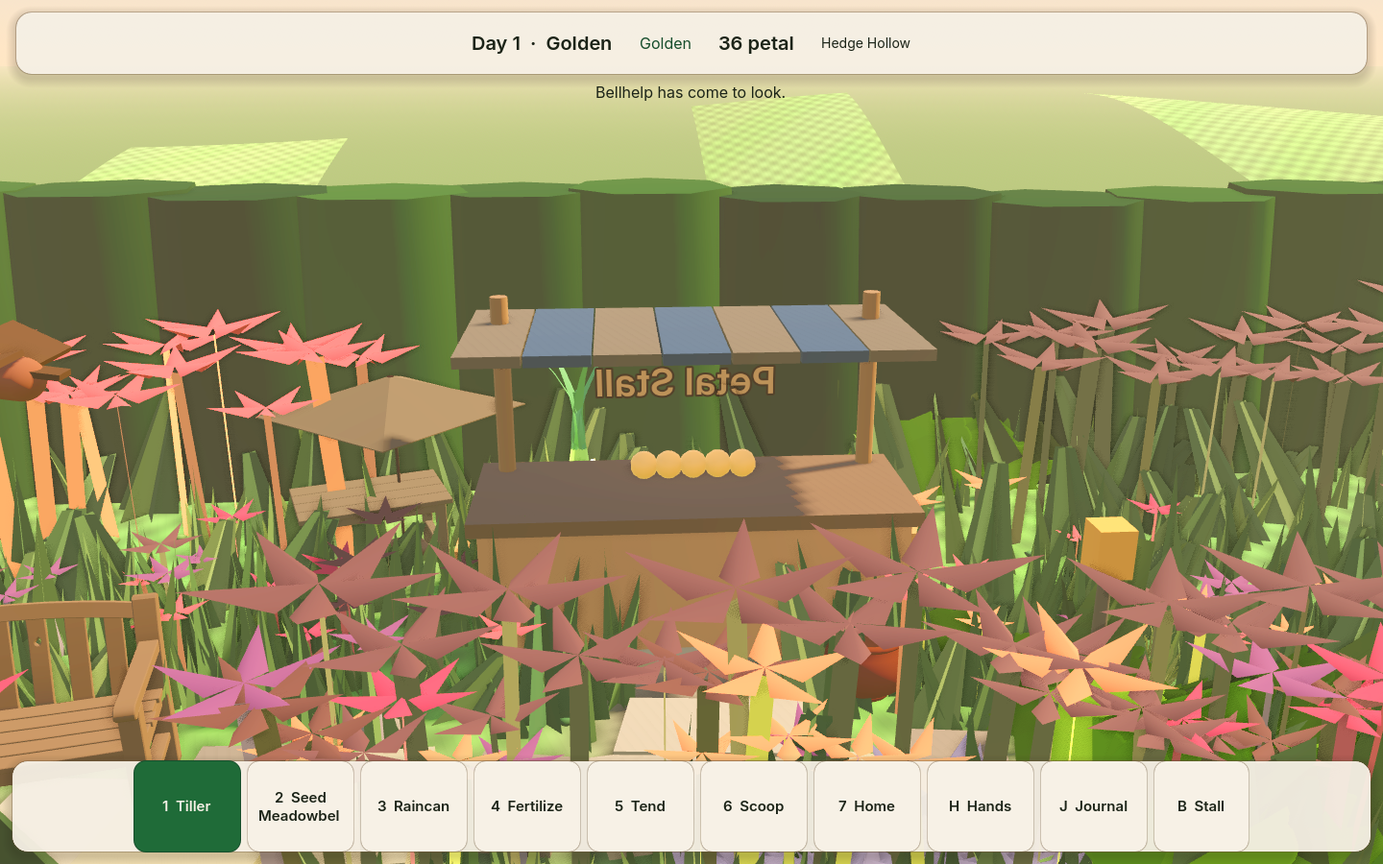
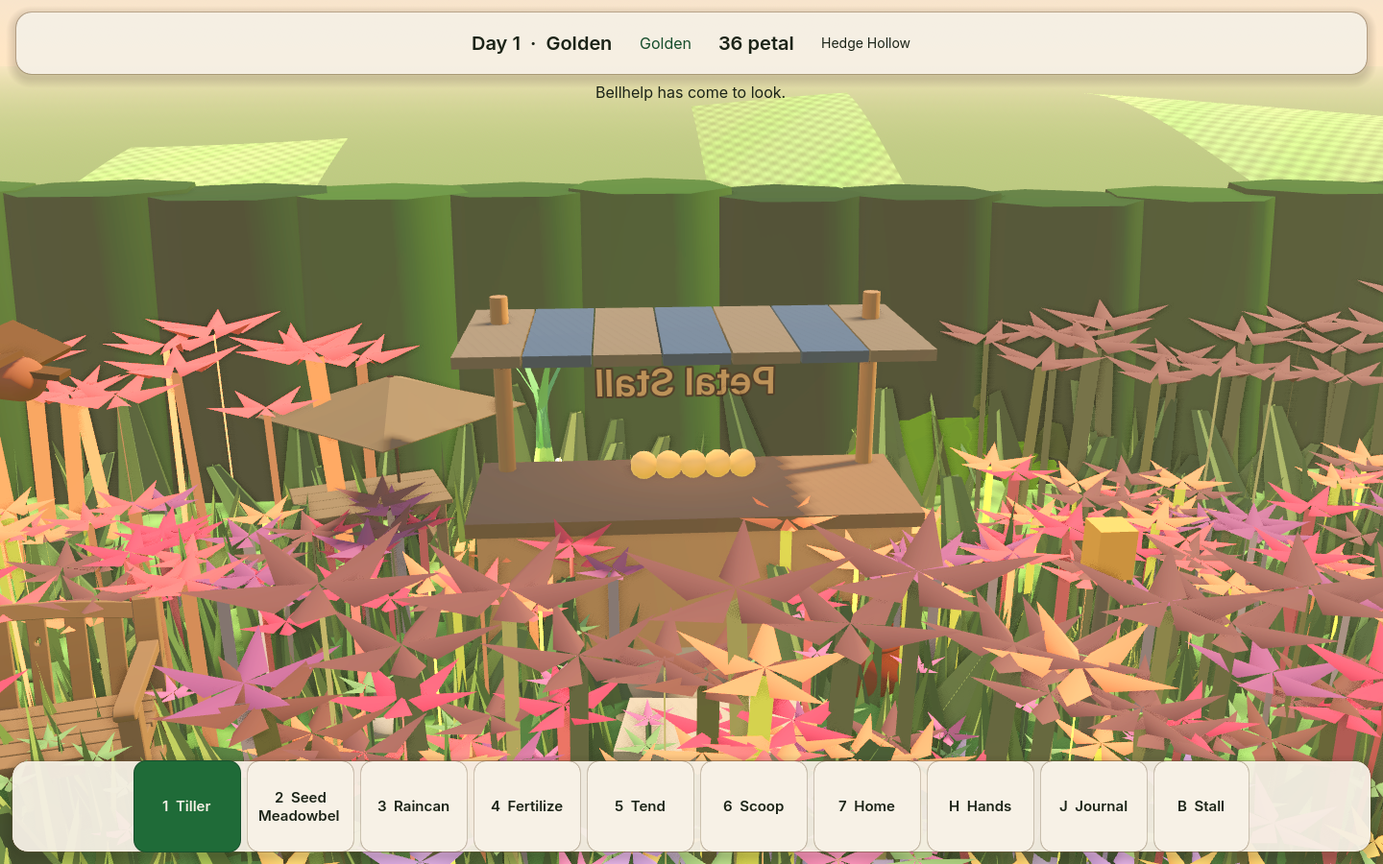
The stall lamp follows the counter's open hours.
Brighter from 5:00 until 19:30, and dim after the stall shuts.
Hailo chose this slice.

Changed region(s): [[0.0, 0.4044, 1.0, 1.0], [0.5312, 0.4667, 0.5625, 0.5289], [0.9688, 0.9022, 1.0, 0.9333]]

diff --git a/docs/PETALWILD_MASTER_STATE.md b/docs/PETALWILD_MASTER_STATE.md
@@ -25,7 +25,7 @@ This machine has no Vulkan surface. Godot falls back to OpenGL 3 / llvmpipe. Aud
 - Chain continues through Bulrush, Reedic, Cirlark, Dusknip night-loam, Pegapear, Gushorn.
 - Grab, drop, and throw on the jelly spring body. Mood and bond change.
 - Lumen Peel, Bram Cobble, and Nessa Pod (Nessa waits for a resident Bellhelp and a home kit).
-- Petal coins. Fertiliser purchase spends coins from 5:00 until 19:30. Before morning and after dusk the stall is shut and the tin does not move. Peach-tray proposal spends 8 only after approval, once a day.
+- Petal coins. Fertiliser purchase spends coins from 5:00 until 19:30. Before morning and after dusk the stall is shut and the tin does not move. The stall lamp brightens while the counter is open and dims after it shuts. Peach-tray proposal spends 8 only after approval, once a day.
 - Save and reload round-trip coins and garden state.
 - Slobad's CC0 forest loop is the garden bed. Tool sounds stay procedural. Eight bees drift over the beds and sit on the flowers in the rain. Four birds cross the garden by day, perch from dusk through the night, and in the rain. At 5:00 they leave the perch and sing once, and the parish takes the day round. That song lasts until 7:00. Rain, night, and a later hour stay quiet, and the same morning does not sing again. A reload keeps that morning. From 5:00 to 7:00 the open beds take a little dew. It does not seed, and it does not fall in the rain, at night, or after seven. The parish page counts both.
 - Large text resizes the garden HUD without leaving the scene.
@@ -74,4 +74,4 @@ Three largest gaps still open, against `docs/reference/petalwild_target_garden_0
 
 ## Next integration
 
-Keep this build playable. The next pass stays inside `scenes/main.tscn` (Hedge Hollow). The creature chain through Gushorn can happen in this garden, and two resident Bellhelps raise the species to breeding. The later resident walks to the first, the journal says a pair is in the parish, a breeding pair leaves one young beside them, a thin meadow does not send that young to the hedge while the pair remains, a reload keeps that young, and off-screen they share the first resident's home kit. A resident who is petted until they trust your hands is bonded. By day they walk to the gardener, the journal keeps that trust beside the pair, and a reload keeps the bond. By day a resident on screen walks to a ripe plant they came for and bites when they reach it. That plant has to grow back. Off screen they bite without crossing the garden. A reload keeps them headed for the fruit. A dry crop droops and loses height until the bed is watered. A tired crop stands shorter until the bed is fed, and a dry one still droops. Left dry for six hours, it is gone from the bed, and a reload keeps that clock. A living crop tires its bed. By day Bram feeds the one under that crop's fertility line, thirst still comes first, the pouch is not spent, and a reload keeps that walk. He leaves a tired bramble when a settled Grapling is resting on it and feeds the next tired bed. If that cane is the only one, he leaves it. The bed readout says when a crop needs water, when it needs feed, when fruit is returning, when a cane is kept, and when the bells are filling, and when a reed is kept. A dry bed says thirst before the cane. A reload keeps that line. A visitor on the cane does not stop him. A visitor whose plants are gone walks to the gate, the journal says they are heading for the hedge, Nessa writes the departure into the parish book, and a reload keeps that walk. When two visitors leave on the same tick she writes both names. If one turns back, that name leaves the page and she still writes the other. If they all turn back, the page stays blank. A reload keeps them in the garden. On an even afternoon it rains from 11:00 through 16:30, Nessa walks the tea house, the hut, and the foundry, Bram walks the shed and the stall, Lumen paces the awning, nothing is filed, the beds take the water, and a reload keeps that shower and the round. A resident with a home kit walks to it and stays awake. With no kit they stay out in the rain. At night, with no kit, they sleep under the stall awning and go back to the flower in the morning. A pair still walks together. A kit still wins. A visitor walks under the stall awning in the rain and at night, and stays awake. In the morning they go back to the flower. A departure still goes to the gate, and a dry afternoon leaves them on the flower. Half an hour of rain carries seed from a ripe plant into the next empty tilled bed. A dry hour does not, and a reload keeps the seedling. In the mist the beds keep the water they already have. The mist does not water them, and it does not carry seed. An odd afternoon stays golden, including the capture hour. Reedic walks to Bulrush. A visitor keeps that walk. Once it has settled, it walks to a reed, on screen and off it, and a wet reed stays wet. A visitor does not hold the water, and a dry reed still dries. Rain cover, a home kit, and a departure still come first. A bonded Reedic stays in the pond. A reload keeps that reed. The bed readout says the reed is kept. Once that Bulrush settles, company arrives, and when the partner settles the journal says a pair. The later one wades to the first. In the pond a Bulrush and a Reedic sit in the water, and so does a young Bulrush. On the lawn, and under a home kit, they stand on the ground. A bonded Bulrush stays in the pond. A reload keeps that pair, and a home kit at night still wins. At dusk Pegapear walks to the nightlantern, and once it has settled the morning sends it back to the peach. A visitor at dusk walks to the lantern too. A resident bites that lantern at dusk and leaves the peach ripe. In the morning the bite is the peach, and the lantern stays ripe. A visitor does not bite. Night does not bite. Off screen the bite still lands. A reload keeps that bite. A bitten lantern on night-loam grows back. Without that loam it stays short. While it is short, dusk still walks to it, on screen and off. A bitten peach still draws the morning. The bed says a bitten crop is growing back once its water and feed are met. A lantern without night-loam says it needs that soil instead. A harvest leaves the same mark, thirst still comes first, and a ripe bed clears it. Off screen that walk continues. Rain cover, a home kit, and a departure still come first. A reload keeps the hour. Gushorn walks to the night-loam. Without a settled crown, one bed of it thins every four hours, and a nightlantern on that soil stops growing. A settled Gushorn holds the loam. Rain cover, a home kit, and a departure still come first. A reload keeps that clock. When fewer than four beds still hold it, a resident Dusknip lays the night-loam back, including under a nightlantern that had gone thin. A visitor does not. A Gushorn still short of the hedge turns back once that soil returns. A reload keeps the beds. Berrypatch walks to a bitten cane, on screen and off it. Once it has settled there, a wet fed cane ripens again. A visitor does not, and a dry or tired cane stays bitten. Rain cover, a home kit, and a departure still come first. A reload keeps that fruit. Grapling creeps, vine-slow, to a bramble, on screen and off it. Once it has settled and is resting on that cane, the bed stops tiring while the cane is wet. A visitor does not feed it, and a dry cane still tires. Rain cover, a home kit, and a departure still come first. A reload keeps the grapling on that cane. Cirlark and Dusknip walk to Bellhelp. A visitor Cirlark keeps that walk. Once it has settled, it walks to a short meadowbell, on screen and off it, and a wet fed bell fills in. A visitor does not fill it, and a dry or tired bell stays short. Rain cover, a home kit, and a departure still come first. A reload keeps that bell. The bed readout says the bells are filling. A departure is not followed. Rain cover and a home kit still win. A settler stays. A placed home kit is a moss shelter. Off-screen, a resident still bites a ripe plant they came for, and a reload keeps that bite. Grove Park is still not built. The hedge tea house stands on the south lawn. The research hut stands west of it, and the media foundry stands between them. The town hall is a board by the south gate. Meadowbells are a clump of three, and every crop sits in a ring of leaves. The wooden frames and the inner hedge around the four beds are gone. The parish hedge stays. Flowers spill past the outer edges of the beds and still line the north-south path. The north-south, south, and north bed tracks no longer carry stones. Meadow, flowers, and the same lawn grass cover them. The stall spur and the pond path stay worn, and flowers line both edges. The worn centers stay open. Empty meadow cells carry a fuller clump. A planted cell keeps eight flowers on its rim, and the stem stays clear. The worn centers stay open. The lawn just inside the west hedge carries a tighter bloom grid. The north apron continues east of the beds. The south lawn in front of the rooms carries a tighter bloom grid. The hedge wall stays. After dusk the three path lanterns brighten, and the afternoon shot stays as it is. On this shot 3.65% of the upper band is still light green (2733 of 74800 pixels). The previous file is 2802, mostly at screen x 1240–1400, and the stall still shows through the middle. The hill mean is (212.2, 223.9, 146.6). The south band (screen y 740–860, x 100–900) changed 21.6%. The south rooms and the town hall board sit in the foreground. Bees sit on the flowers while it rains. Do not paint that hill edge, do not cut the hill, and do not raise the east shrubs. Do not fill Bellhelp’s dark throat. Do not open a side demo. The Kenney/Cara grove in `scripts/presentation/` is not the running scene.
+Keep this build playable. The next pass stays inside `scenes/main.tscn` (Hedge Hollow). The creature chain through Gushorn can happen in this garden, and two resident Bellhelps raise the species to breeding. The later resident walks to the first, the journal says a pair is in the parish, a breeding pair leaves one young beside them, a thin meadow does not send that young to the hedge while the pair remains, a reload keeps that young, and off-screen they share the first resident's home kit. A resident who is petted until they trust your hands is bonded. By day they walk to the gardener, the journal keeps that trust beside the pair, and a reload keeps the bond. By day a resident on screen walks to a ripe plant they came for and bites when they reach it. That plant has to grow back. Off screen they bite without crossing the garden. A reload keeps them headed for the fruit. A dry crop droops and loses height until the bed is watered. A tired crop stands shorter until the bed is fed, and a dry one still droops. Left dry for six hours, it is gone from the bed, and a reload keeps that clock. A living crop tires its bed. By day Bram feeds the one under that crop's fertility line, thirst still comes first, the pouch is not spent, and a reload keeps that walk. He leaves a tired bramble when a settled Grapling is resting on it and feeds the next tired bed. If that cane is the only one, he leaves it. The bed readout says when a crop needs water, when it needs feed, when fruit is returning, when a cane is kept, and when the bells are filling, and when a reed is kept. A dry bed says thirst before the cane. A reload keeps that line. A visitor on the cane does not stop him. A visitor whose plants are gone walks to the gate, the journal says they are heading for the hedge, Nessa writes the departure into the parish book, and a reload keeps that walk. When two visitors leave on the same tick she writes both names. If one turns back, that name leaves the page and she still writes the other. If they all turn back, the page stays blank. A reload keeps them in the garden. On an even afternoon it rains from 11:00 through 16:30, Nessa walks the tea house, the hut, and the foundry, Bram walks the shed and the stall, Lumen paces the awning, nothing is filed, the beds take the water, and a reload keeps that shower and the round. A resident with a home kit walks to it and stays awake. With no kit they stay out in the rain. At night, with no kit, they sleep under the stall awning and go back to the flower in the morning. A pair still walks together. A kit still wins. A visitor walks under the stall awning in the rain and at night, and stays awake. In the morning they go back to the flower. A departure still goes to the gate, and a dry afternoon leaves them on the flower. Half an hour of rain carries seed from a ripe plant into the next empty tilled bed. A dry hour does not, and a reload keeps the seedling. In the mist the beds keep the water they already have. The mist does not water them, and it does not carry seed. An odd afternoon stays golden, including the capture hour. Reedic walks to Bulrush. A visitor keeps that walk. Once it has settled, it walks to a reed, on screen and off it, and a wet reed stays wet. A visitor does not hold the water, and a dry reed still dries. Rain cover, a home kit, and a departure still come first. A bonded Reedic stays in the pond. A reload keeps that reed. The bed readout says the reed is kept. Once that Bulrush settles, company arrives, and when the partner settles the journal says a pair. The later one wades to the first. In the pond a Bulrush and a Reedic sit in the water, and so does a young Bulrush. On the lawn, and under a home kit, they stand on the ground. A bonded Bulrush stays in the pond. A reload keeps that pair, and a home kit at night still wins. At dusk Pegapear walks to the nightlantern, and once it has settled the morning sends it back to the peach. A visitor at dusk walks to the lantern too. A resident bites that lantern at dusk and leaves the peach ripe. In the morning the bite is the peach, and the lantern stays ripe. A visitor does not bite. Night does not bite. Off screen the bite still lands. A reload keeps that bite. A bitten lantern on night-loam grows back. Without that loam it stays short. While it is short, dusk still walks to it, on screen and off. A bitten peach still draws the morning. The bed says a bitten crop is growing back once its water and feed are met. A lantern without night-loam says it needs that soil instead. A harvest leaves the same mark, thirst still comes first, and a ripe bed clears it. Off screen that walk continues. Rain cover, a home kit, and a departure still come first. A reload keeps the hour. Gushorn walks to the night-loam. Without a settled crown, one bed of it thins every four hours, and a nightlantern on that soil stops growing. A settled Gushorn holds the loam. Rain cover, a home kit, and a departure still come first. A reload keeps that clock. When fewer than four beds still hold it, a resident Dusknip lays the night-loam back, including under a nightlantern that had gone thin. A visitor does not. A Gushorn still short of the hedge turns back once that soil returns. A reload keeps the beds. Berrypatch walks to a bitten cane, on screen and off it. Once it has settled there, a wet fed cane ripens again. A visitor does not, and a dry or tired cane stays bitten. Rain cover, a home kit, and a departure still come first. A reload keeps that fruit. Grapling creeps, vine-slow, to a bramble, on screen and off it. Once it has settled and is resting on that cane, the bed stops tiring while the cane is wet. A visitor does not feed it, and a dry cane still tires. Rain cover, a home kit, and a departure still come first. A reload keeps the grapling on that cane. Cirlark and Dusknip walk to Bellhelp. A visitor Cirlark keeps that walk. Once it has settled, it walks to a short meadowbell, on screen and off it, and a wet fed bell fills in. A visitor does not fill it, and a dry or tired bell stays short. Rain cover, a home kit, and a departure still come first. A reload keeps that bell. The bed readout says the bells are filling. A departure is not followed. Rain cover and a home kit still win. A settler stays. A placed home kit is a moss shelter. Off-screen, a resident still bites a ripe plant they came for, and a reload keeps that bite. Grove Park is still not built. The hedge tea house stands on the south lawn. The research hut stands west of it, and the media foundry stands between them. The town hall is a board by the south gate. Meadowbells are a clump of three, and every crop sits in a ring of leaves. The wooden frames and the inner hedge around the four beds are gone. The parish hedge stays. Flowers spill past the outer edges of the beds and still line the north-south path. The north-south, south, and north bed tracks no longer carry stones. Meadow, flowers, and the same lawn grass cover them. The stall spur and the pond path stay worn, and flowers line both edges. The worn centers stay open. Empty meadow cells carry a fuller clump. A planted cell keeps eight flowers on its rim, and the stem stays clear. The worn centers stay open. The lawn just inside the west hedge carries a tighter bloom grid. The north apron continues east of the beds. The south lawn in front of the rooms carries a tighter bloom grid. The hedge wall stays. After dusk the three path lanterns brighten, and the afternoon shot stays as it is. On this shot 3.65% of the upper band is still light green (2733 of 74800 pixels). The previous file is 2802, mostly at screen x 1240–1400, and the stall still shows through the middle. The hill mean is (212.2, 223.9, 146.6). The south band (screen y 740–860, x 100–900) changed 21.6%. The stall lamp brightens while the stall is open and dims after it shuts. The afternoon home shot stays as it is. The south rooms and the town hall board sit in the foreground. Bees sit on the flowers while it rains. Do not paint that hill edge, do not cut the hill, and do not raise the east shrubs. Do not fill Bellhelp’s dark throat. Do not open a side demo. The Kenney/Cara grove in `scripts/presentation/` is not the running scene.

diff --git a/docs/VISUAL_GAP.md b/docs/VISUAL_GAP.md
@@ -2,7 +2,7 @@
 
 Compared on 2026-09-23. The scene `tools/run.sh` launches is Hedge Hollow. Shots: `docs/screenshots/wave1_overview.png`, `wave1_jelly.png`, `wave1_lumen.png`. Targets: `docs/reference/petalwild_target_garden_01.png` and `petalwild_target_garden_02.png`.
 
-The north backdrop trees are shorter than the hedge. Crest leaf cards are 0.4 of their old size, and the far wall keeps one 2.5 m tuft in four. A row of dark shrubs stands just behind that wall. The east end is taller so its lip meets the hedge line. Light-green pixels in the upper opening band (screen y 265–320, x 40–1400) fell from 53% to 24%, and in the lower band (y 290–360, x 80–1200) from 36% to 13%. On the east lip (y 252–272, x 40–300) mean luminance fell from 200 to 162. The hill (y 200–245) did not change. The stall still sits in front of the middle of the wall. The bright blue band in that opening was the awning cloth, not a hole in the hedge. That stripe is darker now and reads about (171, 171, 173). A sky-blue detector on the overview (blue above 200, ahead of red by 20 and of green by 10) is 0. The shrub row behind the wall was lifting to pale green under the sun. The same light-green check (green ahead of red by 15 and of blue by 20, green above 140) now covers 1.2% of the upper band, down from 3.5% on the previous shot. The crest leaf cards and the far trees were the pale pixels in the side openings. The upper hill (screen y 200–230) stayed at about (213, 224, 148). The ground sky below the horizon is green, so a hole in the hill reads as olive rather than pale sky. Bellhelp’s close-up shows five pointed lobes, five gap tips past them, a wide short rank inside that ring, a darker band, and a wider flared whorl. The dark throat stays. The wide skirt of spheres is gone. The bench and planter use a dark multiply on the prop texture, and bright plant-atlas texels are capped. The three lantern glasses are amber instead of pure white. The pink disk by the south-west rail, the untilled grass-plot tops, the meadowbell petals, the mauve bed, the resident hands, the light flagstones, the path dirt, and the loose stones are darkened so they stay under the sun. Eight bees drift over the beds. Four birds cross the garden by day and perch at dusk and in the rain. A planted meadowbell is three bells on a leaf pad, and every crop sits in a ring of eight leaves. Pure white on this overview is 0. On the previous shot the upper-band light-green check was 1.17% and the hill mean was (212.9, 224.4, 147.6). The hedge tea house stands in the lower left of the home shot. On that shot the same check was 1.30% (969 pixels) and the hill mean was (212.0, 223.6, 146.4). The research hut stands in the lower middle of that shot, where the check was 1.17% (874 pixels) and the hill mean was (212.0, 223.6, 146.4). The media foundry stands in the lower middle of that shot, where the check was 1.15% (862 pixels) and the hill mean was (212.0, 223.6, 146.4). The town hall board now stands in the south gate. On the town-hall shot the check was 1.29% (968 pixels) and the hill mean was (212.0, 223.6, 146.4). On the six-bloom shot the check was 1.54% (1155 pixels) and the hill mean was (212.0, 223.7, 146.5). Empty untilled beds now carry nine dark leaf discs and eight short flowers, and a tilled or planted bed clears them. On the leaf-cover shot the check was 1.60% (1197 pixels) and the hill mean was (212.1, 223.8, 146.5). Neighboring empty cells now share an overlapping dark lid, so the brown seam inside a plot closes. On the joined-lid shot the check was 1.61% (1208 pixels) and the hill mean was (212.1, 223.8, 146.5). A planted cell now keeps that dark lid, so the crop sits in the meadow instead of an inset square. On the planted-lid shot the check was 1.54% (1149 pixels) and the hill mean was (212.1, 223.7, 146.5). The north and south plots now meet across the lawn, and the north-south path stays open. On the bridge shot the check was 1.57% (1176 pixels) and the hill mean was (212.2, 223.8, 146.6). Flowers now sit on both lips of the north-south path, and the path center stays open. On the path-lip shot the check was 1.61% (1204 pixels) and the hill mean was (212.1, 223.8, 146.5). Flowers now spill past the outer edges of the four beds, and the path-center pixels are unchanged. On the bed-edge shot the check was 1.45% (1083 pixels) and the hill mean was (212.2, 223.9, 146.6). The north-south track is narrower, its shoulders are meadow, and the center stays stone. On the narrow-track shot the check was 1.46% (1091 pixels) and the hill mean was (212.2, 223.9, 146.6). The south and north tracks are narrower too, with flowers on their lips. On the track-lip shot the check was 1.45% (1083 pixels) and the hill mean was (212.2, 223.9, 146.6). The wooden frames and the inner hedge around the four beds are gone. The parish hedge stays. On the open-bed shot the check was 1.26% (940 pixels) and the hill mean was (212.0, 223.6, 146.4). On the stepping-stone shot the check was 1.52% (1136 pixels) and the hill mean was (212.0, 223.7, 146.5). On the smaller-stone shot the check was 1.16% (870 pixels) and the hill mean was (212.0, 223.6, 146.4). On the open-stone shot the check was 1.28% (955 pixels) and the hill mean was (212.2, 223.9, 146.6). On the flower-track shot the check was 1.53% (1148 pixels) and the hill mean was (212.2, 223.9, 146.6). On the track-grass shot the check was 1.21% (903 pixels) and the hill mean was (212.0, 223.6, 146.4). On the worn-walk shot the ledger wrote 1.56% (1166 pixels) and the hill mean (212.1, 223.7, 146.5). The same light-green check on that file is 3.72% (2780 of 74800). Empty meadow cells carry a fuller clump: larger leaves, larger blooms, and four more flowers in the gaps. Tilling one empty cell clears twenty-one instances. On that shot the check was 3.70% (2766 of 74800) and the hill mean was (212.1, 223.7, 146.5). A planted cell now keeps eight flowers on its rim, and the stem stays clear. Opening that cell into meadow adds the other thirteen. The worn centers stay open. On that shot the check was 3.55% (2657 of 74800) and the hill mean was (212.0, 223.7, 146.4). On that shot the check was 3.80% (2841 of 74800) and the hill mean was (212.1, 223.7, 146.5). On that shot the check was 3.82% (2855 of 74800) and the hill mean was (212.1, 223.8, 146.5). The north apron above the beds carries a tighter bloom grid. The worn walks, the stall spur, the rooms, and the pond stay open. On that shot the check was 3.80% (2844). Against the file before it the band gained 82 pixels and lost 93. The hill mean was (212.1, 223.8, 146.5). 6.62% of the pixels below the horizon changed, and 0.49% above y 320. The apron band (screen y 350–400) changed 17%. The bridge strips between the north and south beds carry a tighter bloom grid. The worn center between them stays open. On that shot the check was 3.78% (2831). Against the file before it the band gained 41 pixels and lost 54. The hill mean was (212.2, 223.8, 146.6). 4.59% of the pixels below the horizon changed, and 0.27% above y 320. The bridge band (screen y 486–525, x 343–1037) changed 6%. The lawn just inside the west hedge now carries a tighter bloom grid. The hedge wall stays. On this shot the check is 3.81% (2849). Against that file the band gained 66 pixels and lost 48. The hill mean is (212.1, 223.8, 146.5). 4.73% of the pixels below the horizon changed, and 0.32% above y 320. The west band (screen y 450–700, x 1260–1440) changed 9%, and rose pixels there went from 2147 to 2749. After dusk the three path lanterns brighten. On the night shot the pond lamp moved from (199, 157, 108) to (254, 197, 114). The afternoon shot stays as it is. The north apron continues east of the beds. The worn walks stay open. On this shot the check is 3.75% (2802 of 74800). Against that file the band gained 163 pixels and lost 210. The hill mean is (212.2, 223.9, 146.6). 28.18% of the pixels below the horizon changed, and 1.78% above y 320. The east apron band (screen y 370–450, x 40–560) changed 43.6%, and rose pixels there went from 27759 to 28986. The south lawn in front of the rooms carries a tighter bloom grid. The worn walks and the south hedge stay open. On this shot the check is 3.65% (2733 of 74800). Against that file the band gained 165 pixels and lost 234. The hill mean is (212.2, 223.9, 146.6). 29.84% of the pixels below the horizon changed, and 1.77% above y 320. The south band (screen y 740–860, x 100–900) changed 21.6%, and rose pixels there went from 8225 to 11752. Pure white is 0. The sky-blue detector is 0.
+The north backdrop trees are shorter than the hedge. Crest leaf cards are 0.4 of their old size, and the far wall keeps one 2.5 m tuft in four. A row of dark shrubs stands just behind that wall. The east end is taller so its lip meets the hedge line. Light-green pixels in the upper opening band (screen y 265–320, x 40–1400) fell from 53% to 24%, and in the lower band (y 290–360, x 80–1200) from 36% to 13%. On the east lip (y 252–272, x 40–300) mean luminance fell from 200 to 162. The hill (y 200–245) did not change. The stall still sits in front of the middle of the wall. The bright blue band in that opening was the awning cloth, not a hole in the hedge. That stripe is darker now and reads about (171, 171, 173). A sky-blue detector on the overview (blue above 200, ahead of red by 20 and of green by 10) is 0. The shrub row behind the wall was lifting to pale green under the sun. The same light-green check (green ahead of red by 15 and of blue by 20, green above 140) now covers 1.2% of the upper band, down from 3.5% on the previous shot. The crest leaf cards and the far trees were the pale pixels in the side openings. The upper hill (screen y 200–230) stayed at about (213, 224, 148). The ground sky below the horizon is green, so a hole in the hill reads as olive rather than pale sky. Bellhelp’s close-up shows five pointed lobes, five gap tips past them, a wide short rank inside that ring, a darker band, and a wider flared whorl. The dark throat stays. The wide skirt of spheres is gone. The bench and planter use a dark multiply on the prop texture, and bright plant-atlas texels are capped. The three lantern glasses are amber instead of pure white. The pink disk by the south-west rail, the untilled grass-plot tops, the meadowbell petals, the mauve bed, the resident hands, the light flagstones, the path dirt, and the loose stones are darkened so they stay under the sun. Eight bees drift over the beds. Four birds cross the garden by day and perch at dusk and in the rain. A planted meadowbell is three bells on a leaf pad, and every crop sits in a ring of eight leaves. Pure white on this overview is 0. On the previous shot the upper-band light-green check was 1.17% and the hill mean was (212.9, 224.4, 147.6). The hedge tea house stands in the lower left of the home shot. On that shot the same check was 1.30% (969 pixels) and the hill mean was (212.0, 223.6, 146.4). The research hut stands in the lower middle of that shot, where the check was 1.17% (874 pixels) and the hill mean was (212.0, 223.6, 146.4). The media foundry stands in the lower middle of that shot, where the check was 1.15% (862 pixels) and the hill mean was (212.0, 223.6, 146.4). The town hall board now stands in the south gate. On the town-hall shot the check was 1.29% (968 pixels) and the hill mean was (212.0, 223.6, 146.4). On the six-bloom shot the check was 1.54% (1155 pixels) and the hill mean was (212.0, 223.7, 146.5). Empty untilled beds now carry nine dark leaf discs and eight short flowers, and a tilled or planted bed clears them. On the leaf-cover shot the check was 1.60% (1197 pixels) and the hill mean was (212.1, 223.8, 146.5). Neighboring empty cells now share an overlapping dark lid, so the brown seam inside a plot closes. On the joined-lid shot the check was 1.61% (1208 pixels) and the hill mean was (212.1, 223.8, 146.5). A planted cell now keeps that dark lid, so the crop sits in the meadow instead of an inset square. On the planted-lid shot the check was 1.54% (1149 pixels) and the hill mean was (212.1, 223.7, 146.5). The north and south plots now meet across the lawn, and the north-south path stays open. On the bridge shot the check was 1.57% (1176 pixels) and the hill mean was (212.2, 223.8, 146.6). Flowers now sit on both lips of the north-south path, and the path center stays open. On the path-lip shot the check was 1.61% (1204 pixels) and the hill mean was (212.1, 223.8, 146.5). Flowers now spill past the outer edges of the four beds, and the path-center pixels are unchanged. On the bed-edge shot the check was 1.45% (1083 pixels) and the hill mean was (212.2, 223.9, 146.6). The north-south track is narrower, its shoulders are meadow, and the center stays stone. On the narrow-track shot the check was 1.46% (1091 pixels) and the hill mean was (212.2, 223.9, 146.6). The south and north tracks are narrower too, with flowers on their lips. On the track-lip shot the check was 1.45% (1083 pixels) and the hill mean was (212.2, 223.9, 146.6). The wooden frames and the inner hedge around the four beds are gone. The parish hedge stays. On the open-bed shot the check was 1.26% (940 pixels) and the hill mean was (212.0, 223.6, 146.4). On the stepping-stone shot the check was 1.52% (1136 pixels) and the hill mean was (212.0, 223.7, 146.5). On the smaller-stone shot the check was 1.16% (870 pixels) and the hill mean was (212.0, 223.6, 146.4). On the open-stone shot the check was 1.28% (955 pixels) and the hill mean was (212.2, 223.9, 146.6). On the flower-track shot the check was 1.53% (1148 pixels) and the hill mean was (212.2, 223.9, 146.6). On the track-grass shot the check was 1.21% (903 pixels) and the hill mean was (212.0, 223.6, 146.4). On the worn-walk shot the ledger wrote 1.56% (1166 pixels) and the hill mean (212.1, 223.7, 146.5). The same light-green check on that file is 3.72% (2780 of 74800). Empty meadow cells carry a fuller clump: larger leaves, larger blooms, and four more flowers in the gaps. Tilling one empty cell clears twenty-one instances. On that shot the check was 3.70% (2766 of 74800) and the hill mean was (212.1, 223.7, 146.5). A planted cell now keeps eight flowers on its rim, and the stem stays clear. Opening that cell into meadow adds the other thirteen. The worn centers stay open. On that shot the check was 3.55% (2657 of 74800) and the hill mean was (212.0, 223.7, 146.4). On that shot the check was 3.80% (2841 of 74800) and the hill mean was (212.1, 223.7, 146.5). On that shot the check was 3.82% (2855 of 74800) and the hill mean was (212.1, 223.8, 146.5). The north apron above the beds carries a tighter bloom grid. The worn walks, the stall spur, the rooms, and the pond stay open. On that shot the check was 3.80% (2844). Against the file before it the band gained 82 pixels and lost 93. The hill mean was (212.1, 223.8, 146.5). 6.62% of the pixels below the horizon changed, and 0.49% above y 320. The apron band (screen y 350–400) changed 17%. The bridge strips between the north and south beds carry a tighter bloom grid. The worn center between them stays open. On that shot the check was 3.78% (2831). Against the file before it the band gained 41 pixels and lost 54. The hill mean was (212.2, 223.8, 146.6). 4.59% of the pixels below the horizon changed, and 0.27% above y 320. The bridge band (screen y 486–525, x 343–1037) changed 6%. The lawn just inside the west hedge now carries a tighter bloom grid. The hedge wall stays. On this shot the check is 3.81% (2849). Against that file the band gained 66 pixels and lost 48. The hill mean is (212.1, 223.8, 146.5). 4.73% of the pixels below the horizon changed, and 0.32% above y 320. The west band (screen y 450–700, x 1260–1440) changed 9%, and rose pixels there went from 2147 to 2749. After dusk the three path lanterns brighten. On the night shot the pond lamp moved from (199, 157, 108) to (254, 197, 114). The afternoon shot stays as it is. The north apron continues east of the beds. The worn walks stay open. On this shot the check is 3.75% (2802 of 74800). Against that file the band gained 163 pixels and lost 210. The hill mean is (212.2, 223.9, 146.6). 28.18% of the pixels below the horizon changed, and 1.78% above y 320. The east apron band (screen y 370–450, x 40–560) changed 43.6%, and rose pixels there went from 27759 to 28986. The south lawn in front of the rooms carries a tighter bloom grid. The worn walks and the south hedge stay open. On this shot the check is 3.65% (2733 of 74800). Against that file the band gained 165 pixels and lost 234. The hill mean is (212.2, 223.9, 146.6). 29.84% of the pixels below the horizon changed, and 1.77% above y 320. The south band (screen y 740–860, x 100–900) changed 21.6%, and rose pixels there went from 8225 to 11752. Pure white is 0. The sky-blue detector is 0. The stall lamp brightens while the stall is open and dims after it shuts. The afternoon home shot stays as it is. On the stall close-up the frame mean moved from (135.4, 118.1, 81.9) to (144.7, 121.5, 86.0).
 
 ## Three largest gaps
 
